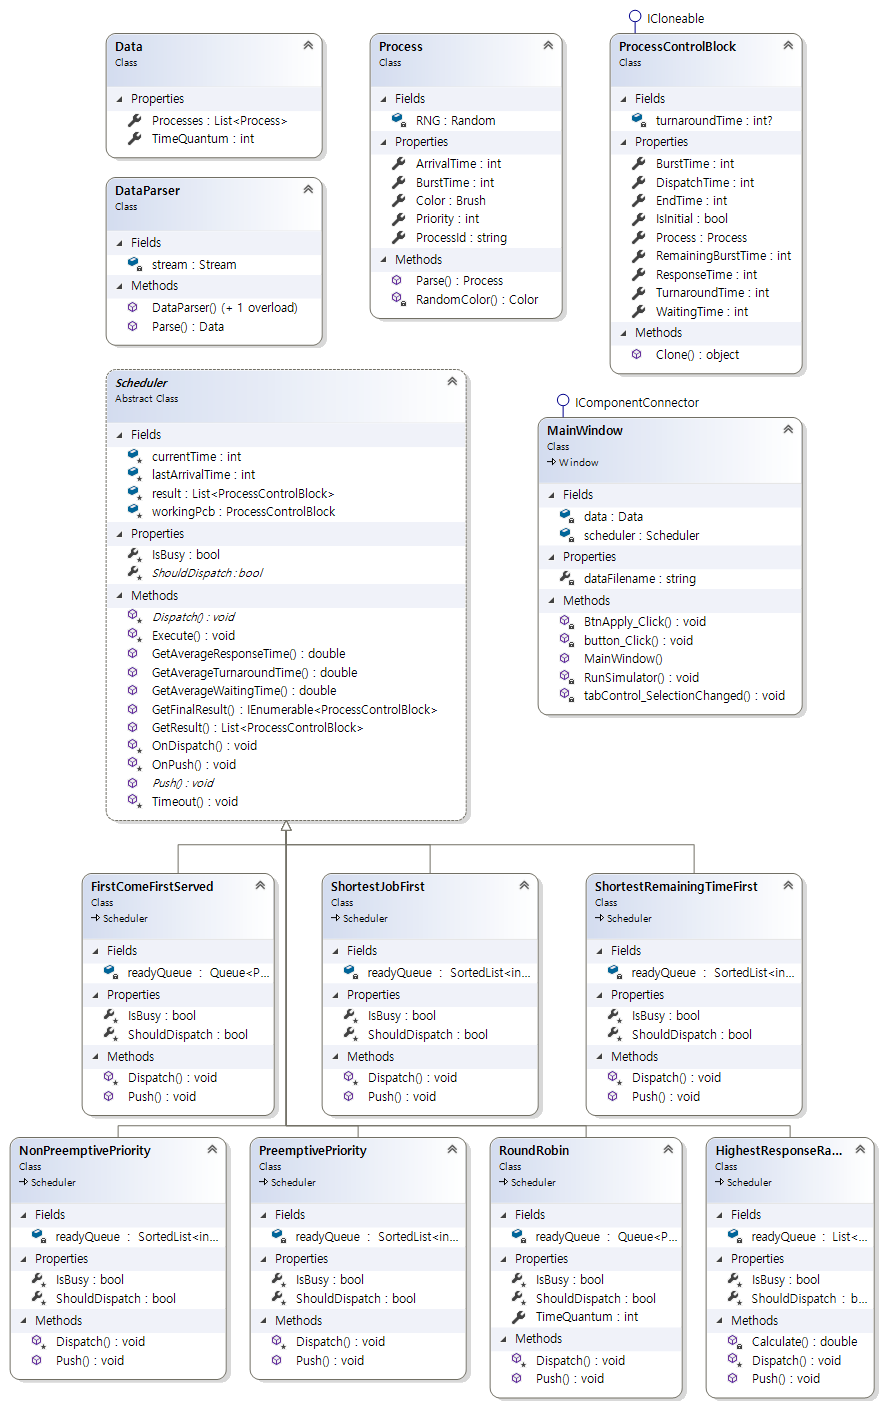
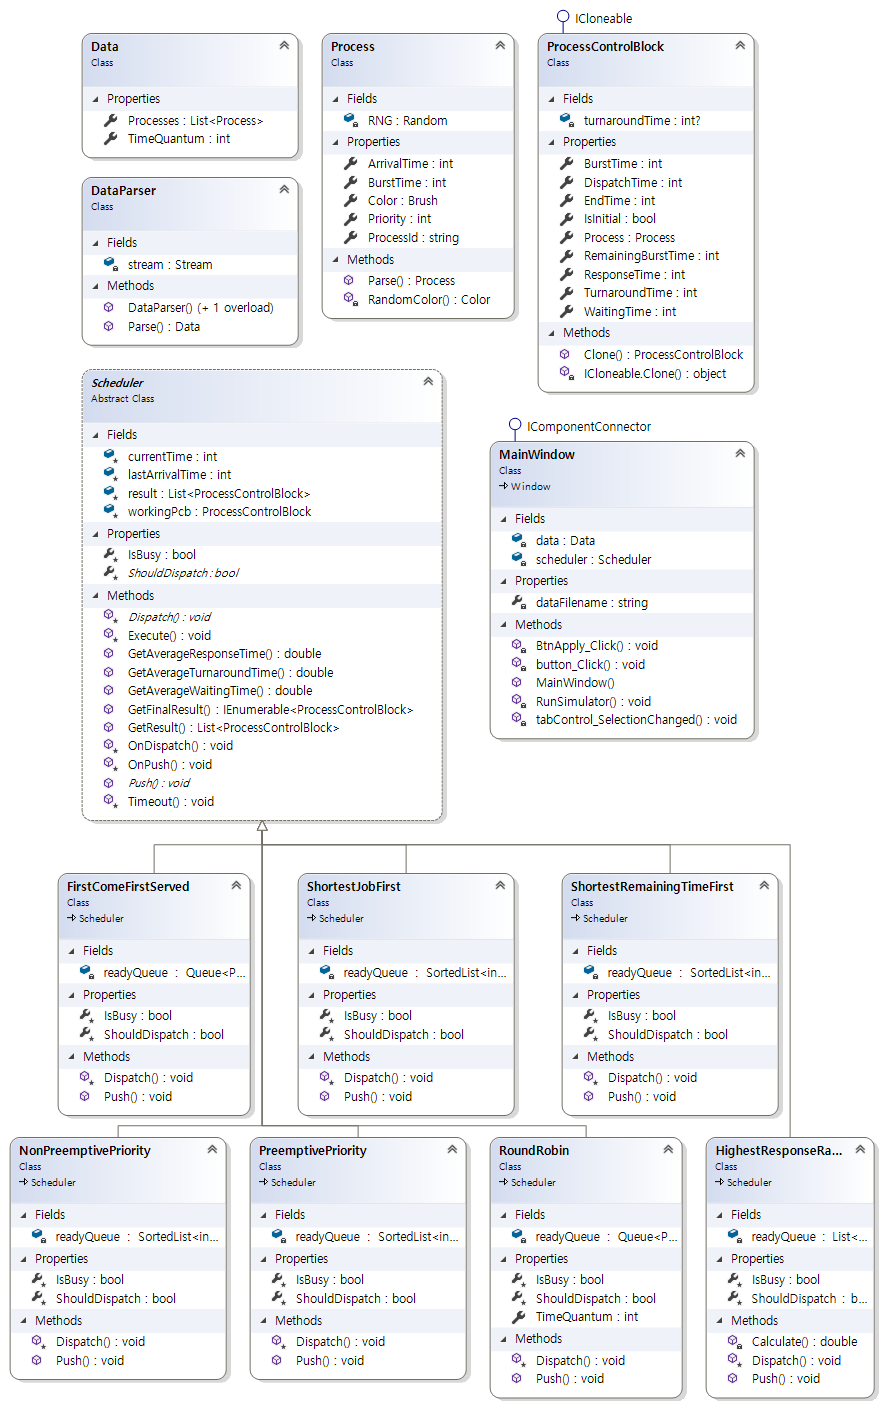
Clone 메서드에서 객체 타입으로 반환하도록 개선

Changed region(s): [[0.0917, 0.0, 0.9173, 0.6117], [0.0612, 0.5811, 0.9173, 0.7952]]

diff --git a/SchedulerSimulator/ProcessControlBlock.cs b/SchedulerSimulator/ProcessControlBlock.cs
@@ -61,7 +61,7 @@ namespace SchedulerSimulator
 
         private int? turnaroundTime = null;
 
-        public object Clone() => new ProcessControlBlock
+        public ProcessControlBlock Clone() => new ProcessControlBlock
         {
             Process = Process,
             IsInitial = false,
@@ -71,5 +71,7 @@ namespace SchedulerSimulator
             ResponseTime = ResponseTime,
             WaitingTime = WaitingTime,
         };
+
+        object ICloneable.Clone() => Clone();
     }
 }

diff --git a/SchedulerSimulator/ShortestRemainingTimeFirst.cs b/SchedulerSimulator/ShortestRemainingTimeFirst.cs
@@ -31,7 +31,7 @@ namespace SchedulerSimulator
             {
                 if (workingPcb.RemainingBurstTime > 0)
                 {
-                    readyQueue.Add(workingPcb.RemainingBurstTime, (ProcessControlBlock)workingPcb.Clone());
+                    readyQueue.Add(workingPcb.RemainingBurstTime, workingPcb.Clone());
                 }
                 Timeout();
             }

diff --git a/SchedulerSimulator/PreemptivePriority.cs b/SchedulerSimulator/PreemptivePriority.cs
@@ -31,7 +31,7 @@ namespace SchedulerSimulator
             {
                 if (workingPcb.RemainingBurstTime > 0)
                 {
-                    readyQueue.Add(workingPcb.Process.Priority, (ProcessControlBlock)workingPcb.Clone());
+                    readyQueue.Add(workingPcb.Process.Priority, workingPcb.Clone());
                 }
                 Timeout();
             }

diff --git a/SchedulerSimulator/RoundRobin.cs b/SchedulerSimulator/RoundRobin.cs
@@ -36,7 +36,7 @@ namespace SchedulerSimulator
             {
                 if (workingPcb.RemainingBurstTime > 0)
                 {
-                    readyQueue.Enqueue((ProcessControlBlock)workingPcb.Clone());
+                    readyQueue.Enqueue(workingPcb.Clone());
                 }
                 Timeout();
             }
